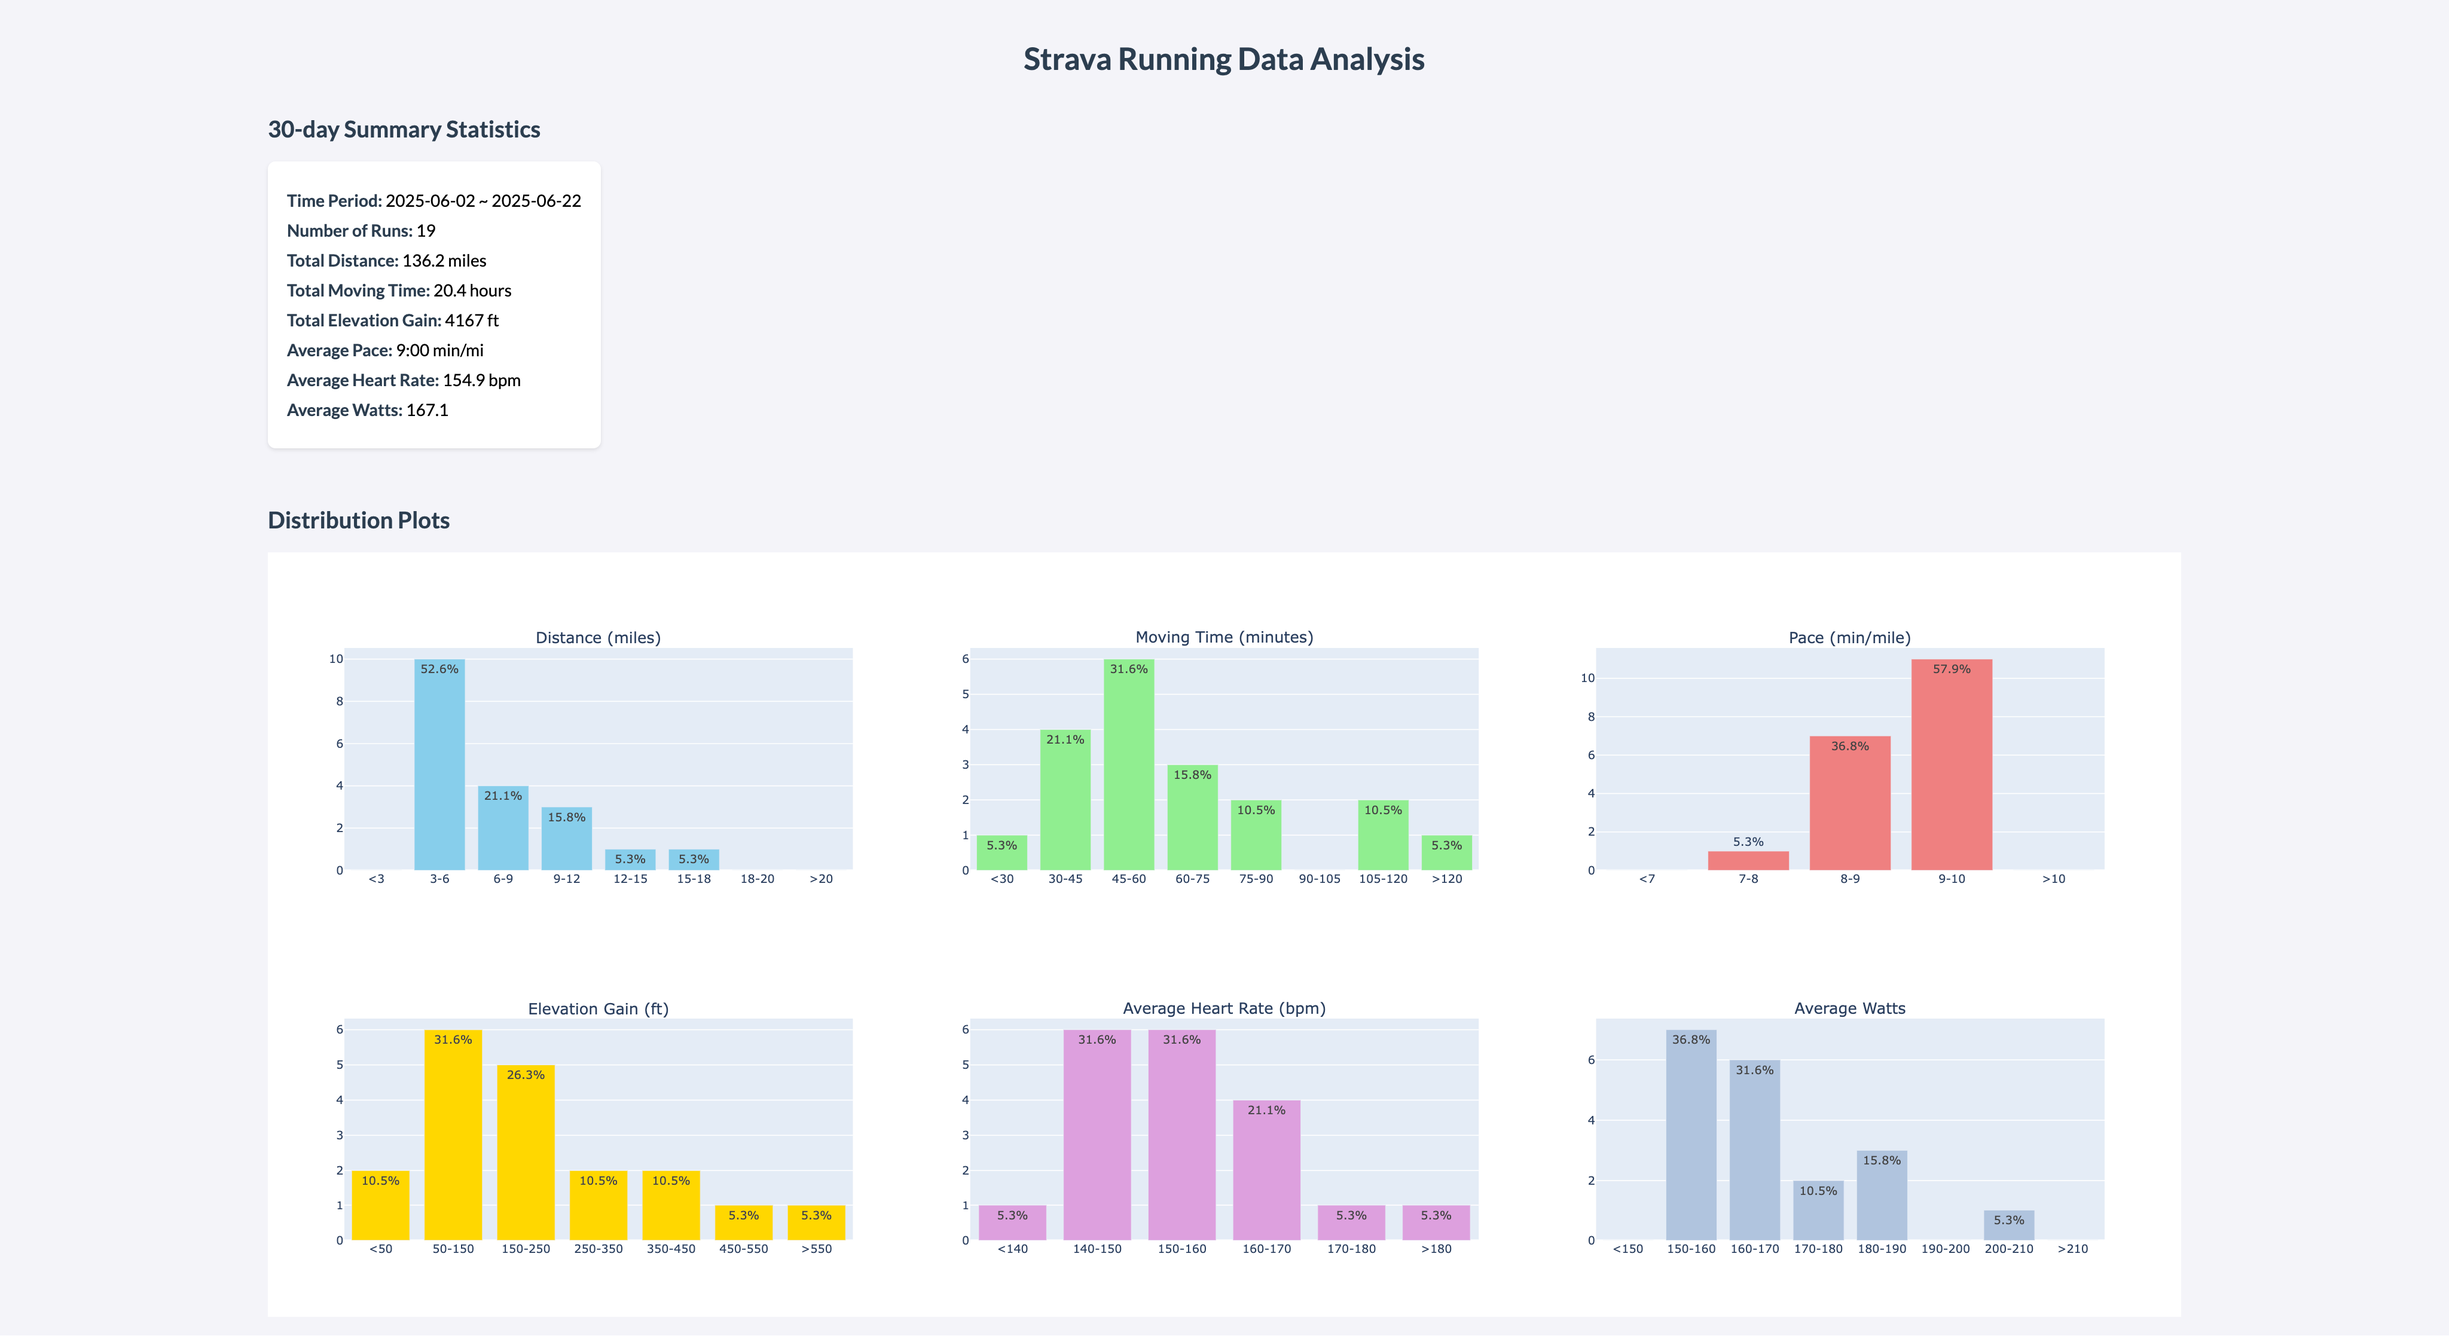
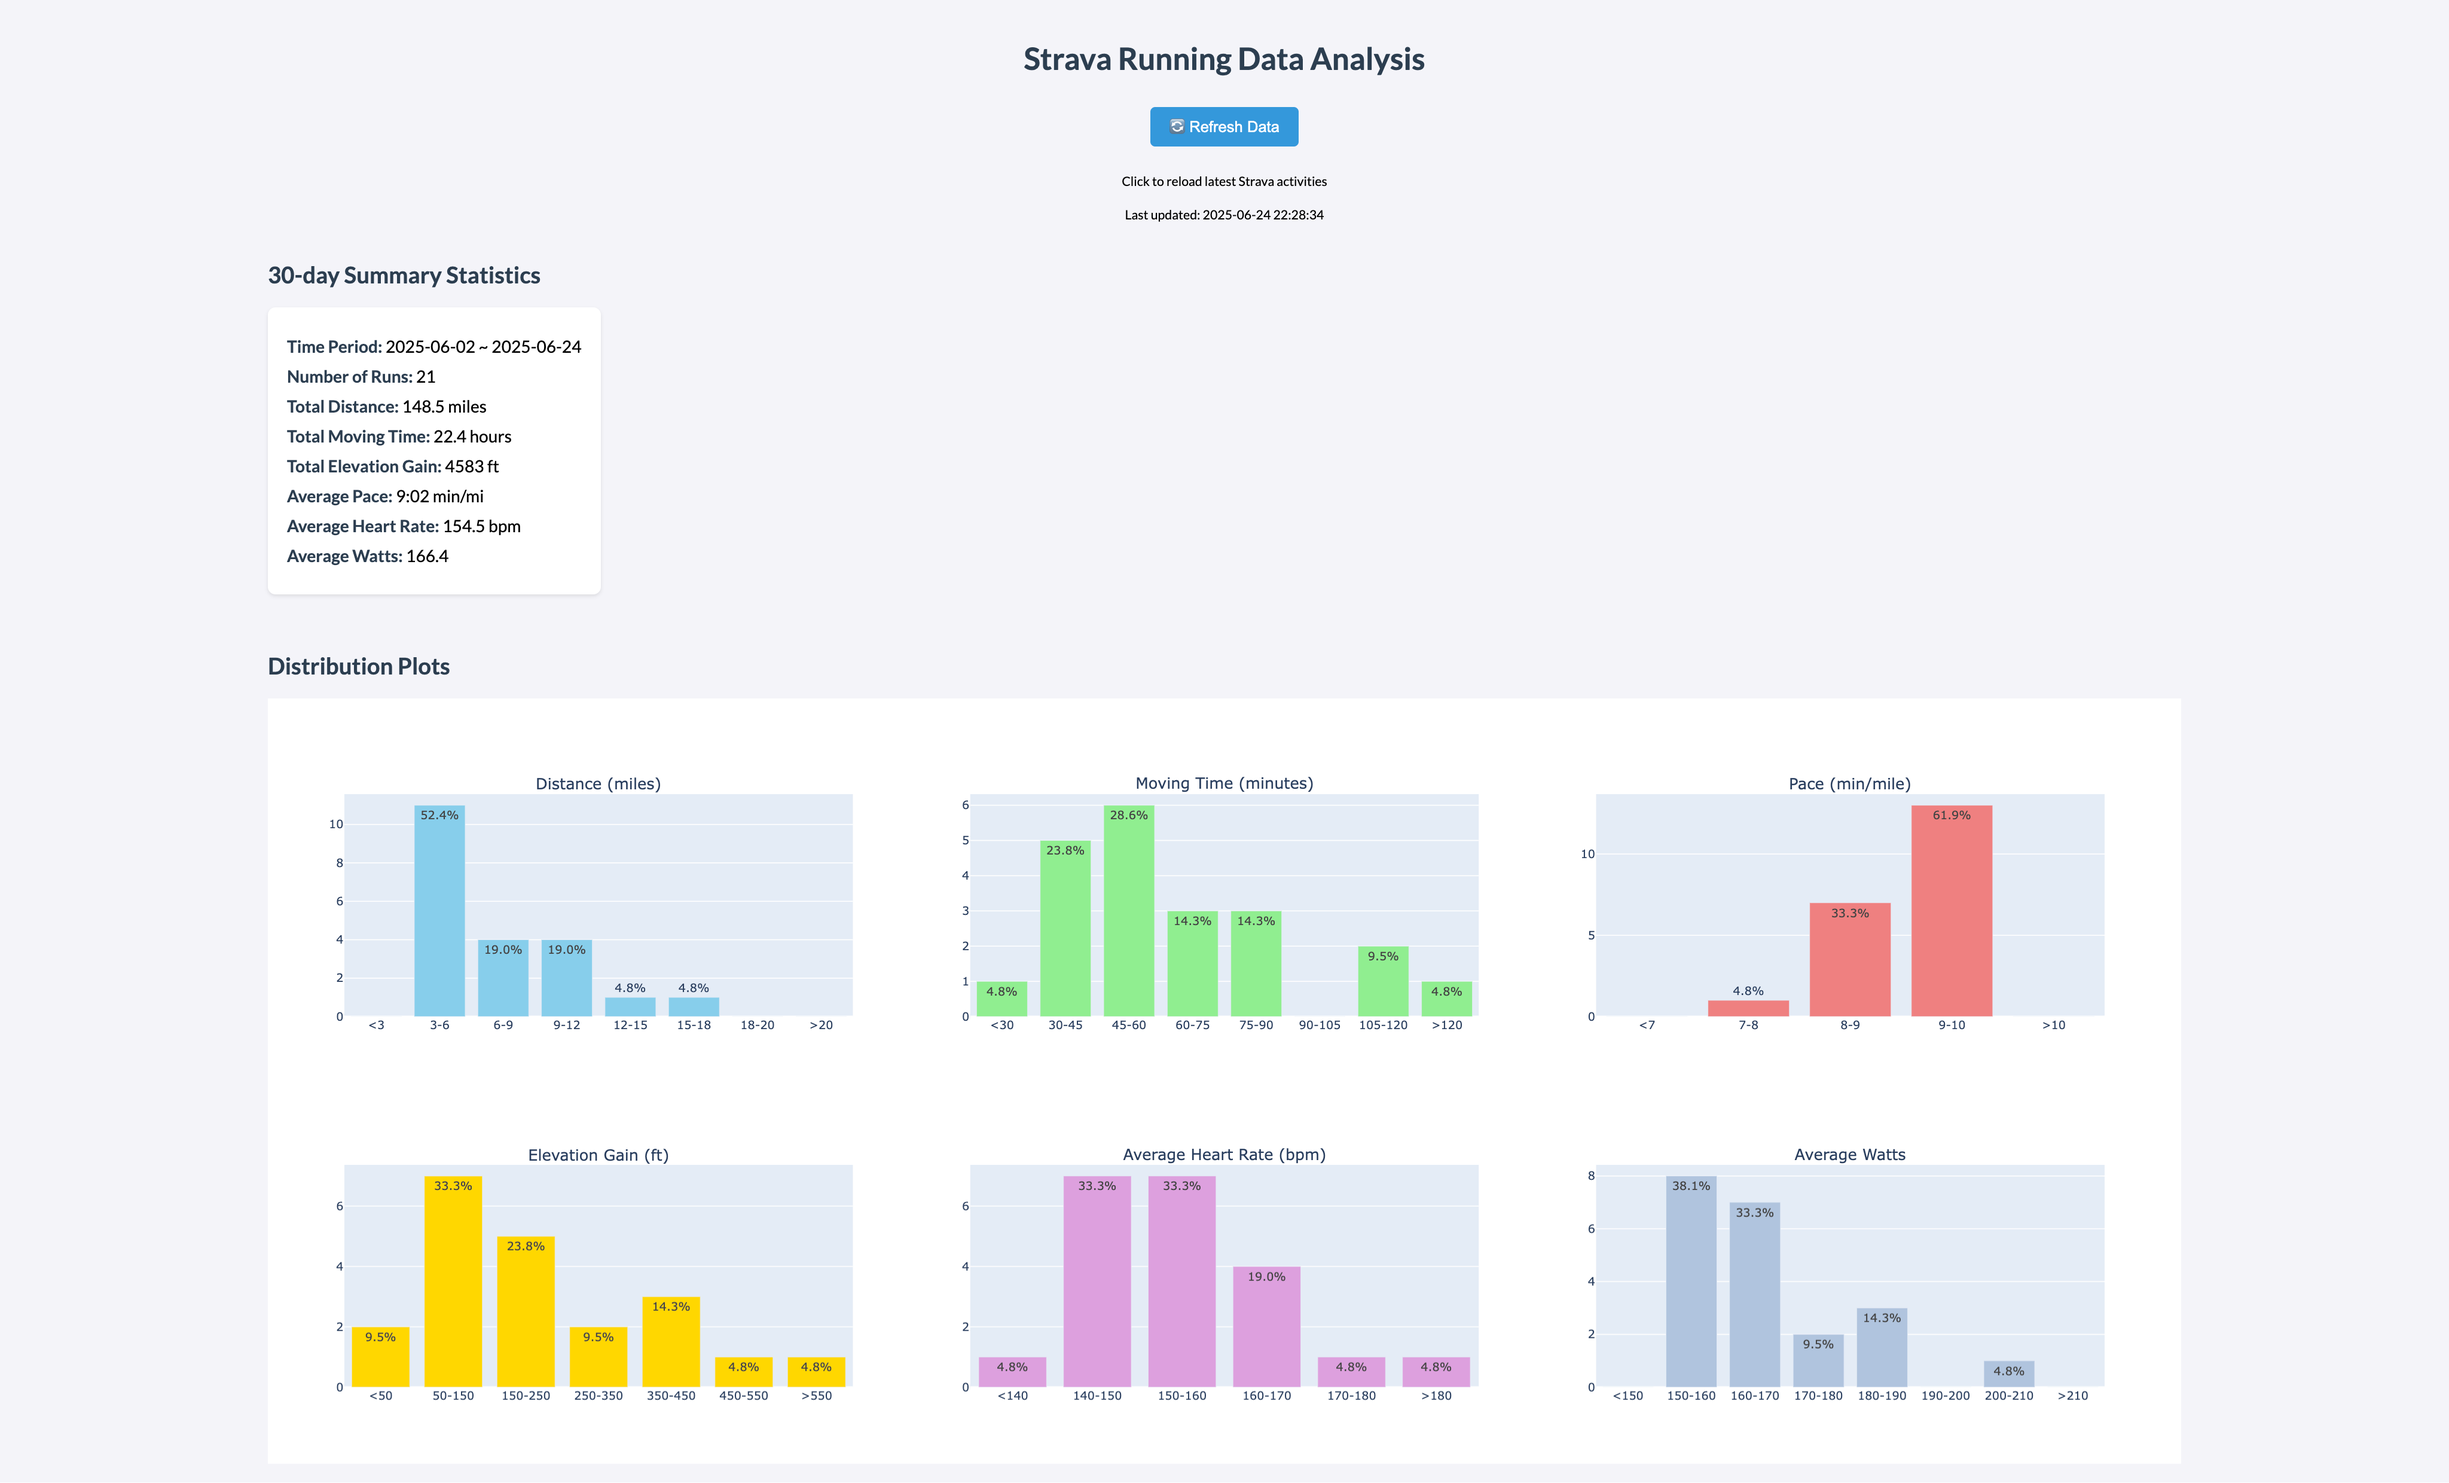
modify the app to refresh the dashboard and data collection

diff --git a/templates/index.html b/templates/index.html
@@ -14,11 +14,29 @@
         h1 { color: #2c3e50; text-align: center; }
         h2 { color: #2c3e50; margin-top: 40px; }
         .plot-container { width: 100%; height: 800px; }
+        .refresh-btn {
+            background-color: #3498db;
+            color: white;
+            padding: 10px 20px;
+            border: none;
+            border-radius: 5px;
+            cursor: pointer;
+            font-size: 16px;
+            margin: 10px 0;
+        }
+        .refresh-btn:hover { background-color: #2980b9; }
+        .header-controls { text-align: center; margin: 20px 0; }
     </style>
 </head>
 <body>
     <div class="container">
         <h1>Strava Running Data Analysis</h1>
+
+        <div class="header-controls">
+            <button class="refresh-btn" onclick="location.reload()">🔄 Refresh Data</button>
+            <p><small>Click to reload latest Strava activities</small></p>
+            <p><small>Last updated: {{ last_updated }}</small></p>
+        </div>
 
         <h2>30-day Summary Statistics</h2>
         <div class="summary">

diff --git a/data_collector.py b/data_collector.py
@@ -67,9 +67,23 @@ def run_continuous_collection(interval_hours=24):
     """Run data collection continuously with specified interval"""
     logging.info(f"Starting continuous data collection (interval: {interval_hours} hours)")
 
+    # Run initial collection immediately
+    logging.info("Running initial data collection...")
+    collect_and_save_data()
+
     while True:
         try:
+            # Calculate next run time
+            next_run = datetime.now() + timedelta(hours=interval_hours)
+            logging.info(f"Next data collection scheduled for: {next_run.strftime('%Y-%m-%d %H:%M:%S')}")
+
+            # Wait for the specified interval
+            time.sleep(interval_hours * 3600)
+
+            # Run data collection
+            logging.info("Running scheduled data collection...")
             success = collect_and_save_data()
+
             if success:
                 logging.info(f"Data collection completed successfully. Next run in {interval_hours} hours.")
             else:
@@ -81,21 +95,24 @@ def run_continuous_collection(interval_hours=24):
             logging.info("Data collection stopped by user")
             break
         except Exception as e:
-            logging.error(f"Unexpected error: {e}")
+            logging.error(f"Unexpected error in continuous collection: {e}")
+            logging.info("Will retry in 1 hour...")
             time.sleep(3600)  # Wait 1 hour before retry
             continue
-
-        # Wait for next collection cycle
-        time.sleep(interval_hours * 3600)
 
 if __name__ == "__main__":
 
     parser = argparse.ArgumentParser(description="Strava Data Collection Agent")
     parser.add_argument("--once", action="store_true", help="Run data collection once and exit")
-    parser.add_argument("--interval", type=int, default=24, help="Collection interval in hours (default: 24)")
+    parser.add_argument("--interval", type=float, default=24, help="Collection interval in hours (default: 24)")
+    parser.add_argument("--minutes", type=float, help="Collection interval in minutes (overrides --interval)")
 
     args = parser.parse_args()
+
+    # Convert minutes to hours if specified
+    interval_hours = args.minutes / 60 if args.minutes else args.interval
+
     if args.once:
         collect_and_save_data()
     else:
-        run_continuous_collection(args.interval)
+        run_continuous_collection(interval_hours)

diff --git a/app.py b/app.py
@@ -3,19 +3,22 @@
 from data import get_run_data, get_summary_stats
 from plot import generate_plots, generate_summary
 
-from flask import Flask, render_template_string
+from flask import Flask, render_template_string, jsonify
 import plotly.io as pio
+import os
+from datetime import datetime
 # Set plotly to render in browser
 pio.renderers.default = "browser"
-
-run_df = get_run_data()
-summary_stats = get_summary_stats(run_df)
 
 app = Flask(__name__)
 
 @app.route('/')
 def home():
     """Generate the plot and summary HTML"""
+    # Reload data on each request to get latest activities
+    run_df = get_run_data()
+    summary_stats = get_summary_stats(run_df)
+
     summary_html = generate_summary(summary_stats)
     fig = generate_plots(run_df)
     plot_html = pio.to_html(fig, full_html=False, include_plotlyjs='cdn') # type: ignore
@@ -28,8 +31,31 @@ def home():
     return render_template_string(
         template_content,
         summary_html=summary_html,
-        plot_html=plot_html
+        plot_html=plot_html,
+        last_updated=datetime.now().strftime("%Y-%m-%d %H:%M:%S")
     )
 
+@app.route('/refresh')
+def refresh():
+    """Force refresh data and redirect to home"""
+    # This endpoint can be used to manually trigger a data refresh
+    return home()
+
+@app.route('/api/status')
+def status():
+    """API endpoint to check if new data is available"""
+    try:
+        run_df = get_run_data()
+        return jsonify({
+            'status': 'success',
+            'last_updated': datetime.now().isoformat(),
+            'data_points': len(run_df),
+            'latest_activity': run_df['start_date_local'].max() if len(run_df) > 0 else None
+        })
+    except Exception as e:
+        return jsonify({'status': 'error', 'message': str(e)})
+
 if __name__ == '__main__':
-    app.run(debug=True)
+    host = os.environ.get('FLASK_HOST', '127.0.0.1')
+    port = int(os.environ.get('FLASK_PORT', 5000))
+    app.run(host=host, port=port, debug=True)

diff --git a/run_agent.py b/run_agent.py
@@ -7,6 +7,7 @@ Runs data collection and web app in the background
 import os
 import sys
 import time
+import argparse
 import subprocess
 import threading
 import signal
@@ -44,7 +45,7 @@ class StravaAgent:
                 text=True
             )
             self.processes.append(("data_collector", process))
-            logging.info(f"Data collector started with PID: {process.pid}")
+            logging.info(f"Data collector started with PID: {process.pid} (interval: {self.data_interval_hours}h)")
             return process
         except Exception as e:
             logging.error(f"Failed to start data collector: {e}")
@@ -155,7 +156,6 @@ def signal_handler(signum, frame):
     sys.exit(0)
 
 if __name__ == "__main__":
-    import argparse
 
     parser = argparse.ArgumentParser(description="Strava Data Agent")
     parser.add_argument("--port", type=int, default=5000, help="Web app port (default: 5000)")

diff --git a/README.md b/README.md
@@ -2,6 +2,9 @@
 **This is a project aim to use AI Code Editor `CURSOR`**  
 *Below descriptions along with 80% of codes are generated by AI. Manual fine tune are involved.*
 
+> There is a [deployed App](https://strava-summary-5a4d1fc726ea.herokuapp.com/) hosted on Heroku Cloud for demonstration >>
+![demo](./templates/demo.png)
+
 ## 🏃♂ Features
 
 ### Data Collection
@@ -217,10 +220,6 @@ kill -9 <PID>
 - **Elevation Profile**: Elevation gain patterns
 - **Heart Rate Zones**: Heart rate distribution
 - **Power Output**: Power data analysis (if available)
-
-> There is a [deployed App](https://strava-summary-5a4d1fc726ea.herokuapp.com/) hosted on Heroku Cloud for demonstration >>
-
-![demo](./templates/demo.png)
 
 ## 🔒 Security Notes
 
